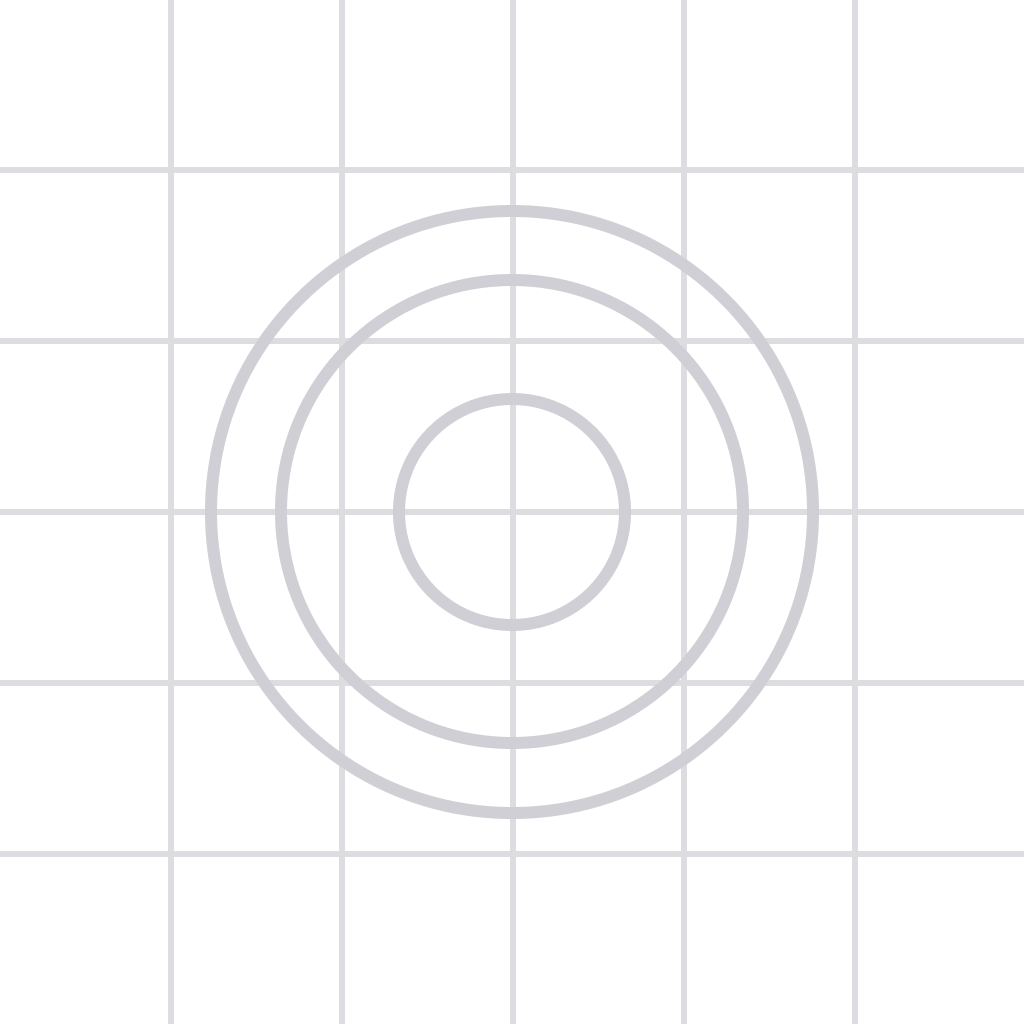
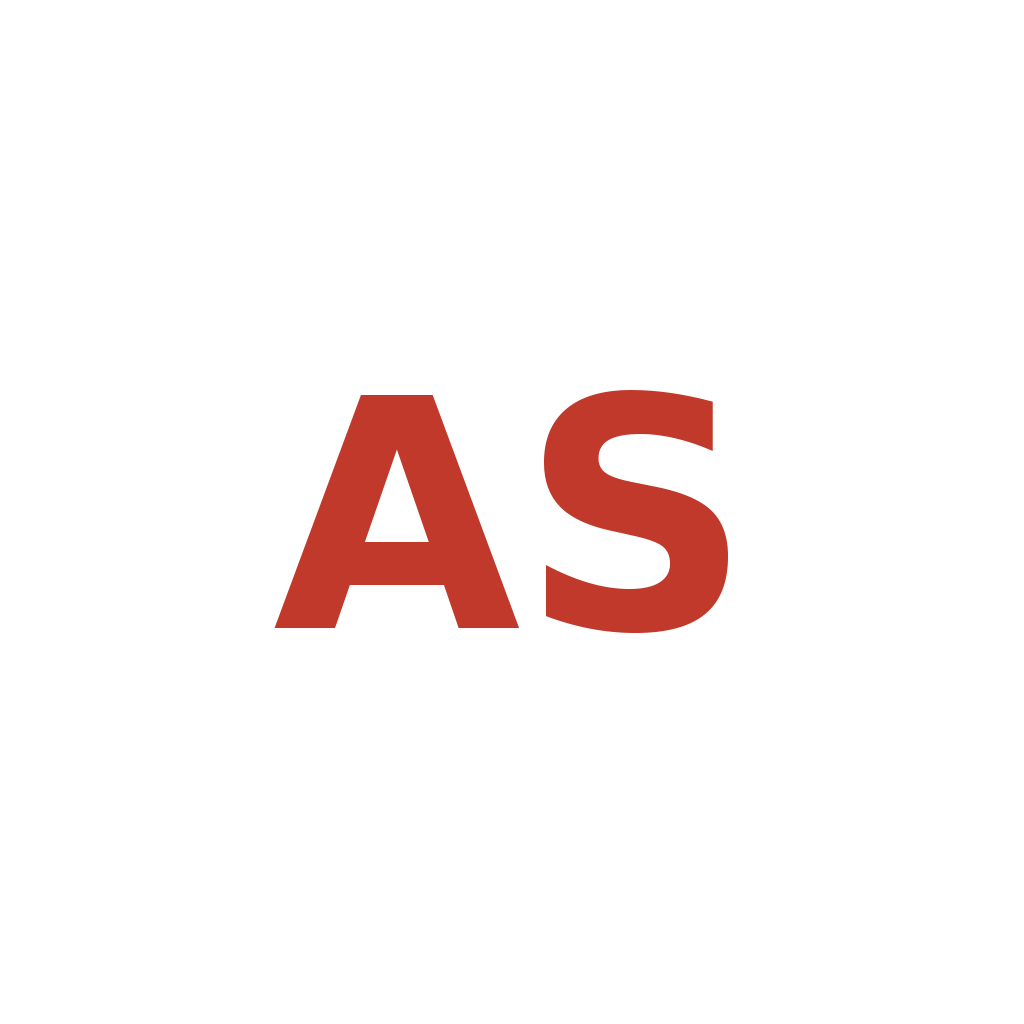
Production config: EAS setup, permissions, live backend URL

Changed region(s): [[0.0, 0.0, 1.0, 1.0]]

diff --git a/services/api.js b/services/api.js
@@ -1,7 +1,7 @@
 import axios from 'axios';
 import * as SecureStore from 'expo-secure-store';
 
-const BASE_URL = 'http://192.168.100.60:5000';
+const BASE_URL = 'https://al-sahal-tracker-backend.onrender.com';
 
 export const getToken = async () => await SecureStore.getItemAsync('token');
 export const saveToken = async (token) => await SecureStore.setItemAsync('token', token);